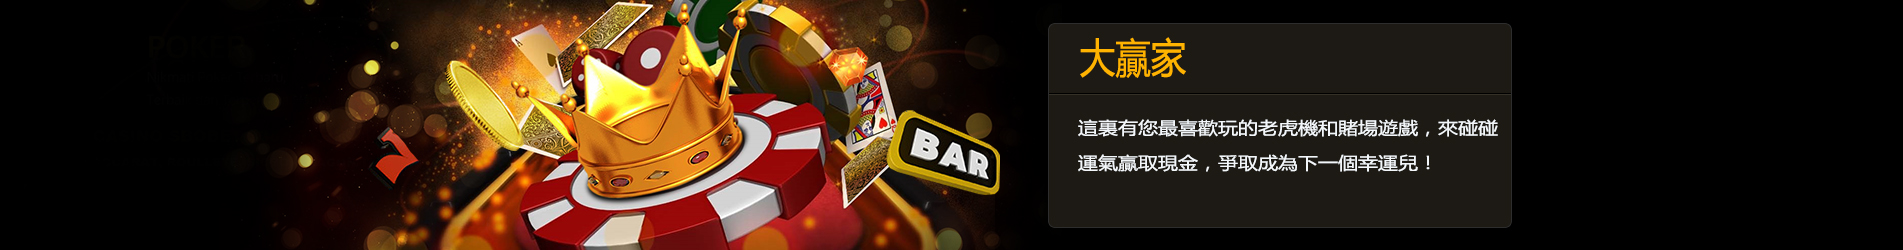
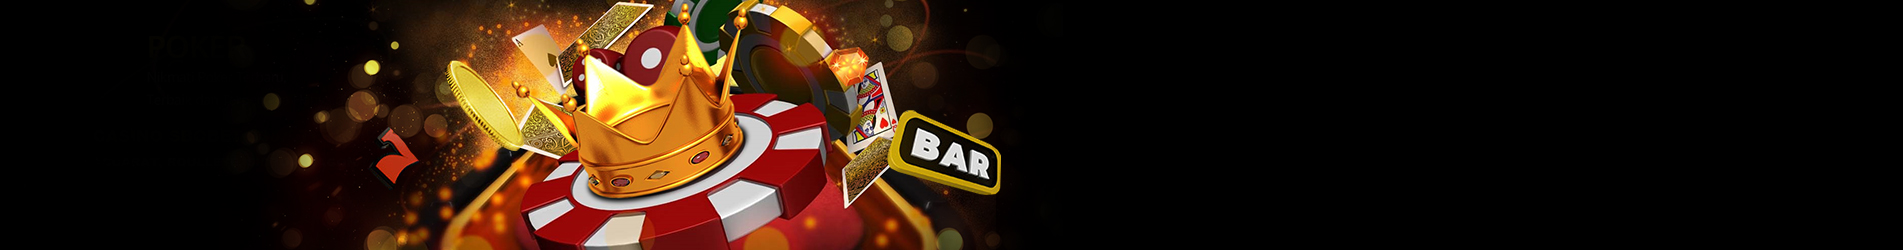
edited by remo

Changed region(s): [[0.248, 0.0, 0.8061, 0.924]]

diff --git a/assets/css/main.css b/assets/css/main.css
@@ -10358,6 +10358,9 @@ box-shadow: inset 0px 1px 0px #ffbd03, 0px 3px 0px 0px #906600, 0px 0px 5px #000
   border: 1px solid #2d2d2d;
   border-radius: 5px;
 }
+.banner-text div{
+  text-align: left;
+}
 .banner-text .title{
   font-size: 40px;
   line-height: 40px;
@@ -10392,15 +10395,6 @@ box-shadow: inset 0px 1px 0px #ffbd03, 0px 3px 0px 0px #906600, 0px 0px 5px #000
 .mnav-top ul li:first-child{
   position: relative;
 }
-.mnav-top ul li:first-child::before{
-  content: '';
-  position: absolute;
-  top: -14px;
-  bottom: 15px;
-  left: -4px;
-  right: 1px;
-  background: #1b1b1b
-}
 .promotion-bar{
   background: #161616;
 }
@@ -10431,10 +10425,15 @@ text-align: center;
 font-weight: 700;
     padding: 5px 45px;
 }
-
 .promo-steps{
   text-align: center;
 }
 .promo-steps .step-txt{
   text-align: left;
+}
+.mobile-banner img.img-responsive{
+  display: none
+}
+.mobile-banner-promotion img.img-responsive{
+  display: block
 }

diff --git a/winner.html b/winner.html
@@ -618,6 +618,13 @@
                   <div class="item active">
                       <!-- Slide Background -->
                       <img src="assets/img/banner/winner.jpg" alt="沙龍匯博彩網站" title="沙龍匯博彩網站" class="slide-image" />
+                      <div class="container">
+                        <div class="banner-text">
+                          <div class="title title-winner">大贏家
+                          </div>
+                          <div class="content content-winner">這裏有您最喜歡玩的老虎機和賭場遊戲，來碰碰 運氣贏取現金，爭取成為下一個幸運兒！</div>
+                        </div>
+                      </div>
                       <div class="bs-slider-overlay">
 
                       </div>

diff --git a/dl.html b/dl.html
@@ -704,6 +704,13 @@
                     <div class="item active">
                         <!-- Slide Background -->
                         <img src="assets/img/dl/banner.jpg" alt="沙龍匯移動應用" title="沙龍匯移動應用" class="slide-image" />
+                        <div class="container">
+                          <div class="banner-text">
+                            <div class="title title-dl">移動應用
+                            </div>
+                            <div class="content content-dl">S36BET Apps 支持android / iOS平台，让移动 博彩变得更加便捷。使用手机和平板电脑，无论 您在何处，随时</div>
+                          </div>
+                        </div>
                     </div>
                 </div>
 

diff --git a/assets/css/media.css b/assets/css/media.css
@@ -1504,6 +1504,15 @@ width: 320px;
     .boxer .steps.step-play img{
       float: left;
     }
+    .mnav-top ul li:first-child::before{
+      content: '';
+      position: absolute;
+      top: -14px;
+      bottom: 15px;
+      left: -4px;
+      right: 1px;
+      background: #1b1b1b
+    }
 }
 
 @media only screen and (min-width: 360px) {
@@ -5121,6 +5130,9 @@ width: 320px;
   }
   .boxer .steps.step-play img{
     float: right;
+  }
+  .mnav-top ul li:first-child::before{
+    content: none;
   }
 }
 

diff --git a/promotion.html b/promotion.html
@@ -600,7 +600,7 @@
   </header>
 
     <main>
-      <div class="container mobile-banner hidden-lg hidden-md">
+      <div class="container mobile-banner mobile-banner-promotion hidden-lg hidden-md">
             <img src="assets/img/banner/new_15/banner-promotion.png" class="img-responsive " alt="">
             <div class="mobile-banner-text">
               <div class="mobile-banner-title">優惠</div>
